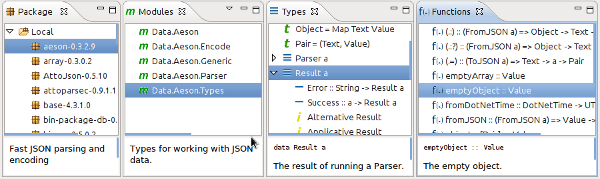
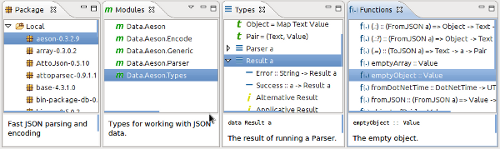
Add new image for profile feature and scale the browser one.

diff --git a/features.md b/features.md
@@ -48,7 +48,7 @@ integrates GHCi and its debugging abilities to make your life easier.</td>
 <table width="800px">
 <tr>
 <td valign="center" width="100%">EclipseFP can run your executables in profile mode and later show a graph of the memory usage. In this way
-you don't need to run <pre>hp2ps</pre> and can manipulate the graph at will.</td>
+you don't need to run `hp2ps` and can manipulate the graph at will.</td>
 <td><img src="images/pofile.png" /></td>
 </tr>
 </table>
@@ -57,11 +57,11 @@ you don't need to run <pre>hp2ps</pre> and can manipulate the graph at will.</td
 <tr>
 <td><img src="images/hoogle.png" /></td>
 <td valign="center" width="100%">The Haskell Browser allows your to navigate your entire collection of packages and modules. Get access to all
-the documentation of these modules withing the IDE. Apart from that, EclipseFP integrates the search abilities of Hoogle.</td>
+the documentation of these modules withing the IDE. Apart from that, EclipseFP integrates the search abilities of Hoogle.
+<br /><br />
+<img src="images/browser.png" /></td>
 </tr>
 </table>
-
-<center><img src="images/browser.png" /></center>
 
 <table width="800px">
 <tr>
